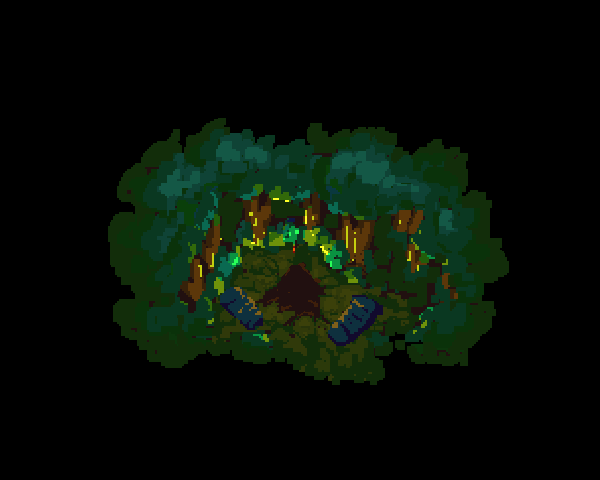
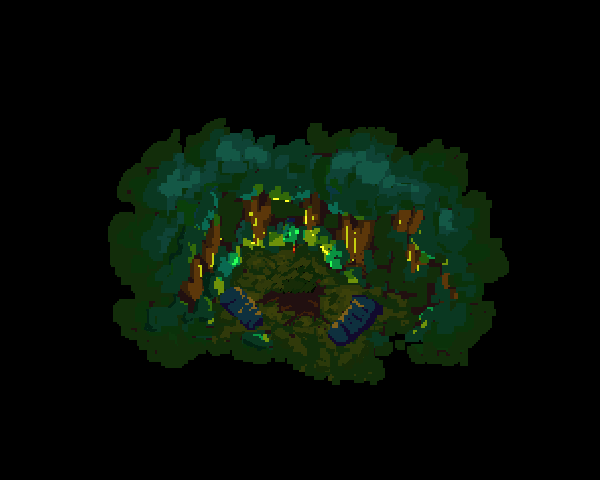
added screen fading

Changed region(s): [[0.45, 0.5312, 0.57, 0.7188], [0.33, 0.5625, 0.36, 0.5938]]

diff --git a/core/src/com/lovely/games/TheFirstGate.java b/core/src/com/lovely/games/TheFirstGate.java
@@ -100,6 +100,8 @@ public class TheFirstGate extends ApplicationAdapter implements Stage {
     private Sprite posterSprite;
     private boolean staticLevel;
     private String fightName;
+    private float screenFade;
+    private Sprite fadeSprite;
 
     @Override
 	public void create () {
@@ -157,6 +159,7 @@ public class TheFirstGate extends ApplicationAdapter implements Stage {
         assetManager.load("portrait-1.png", Texture.class);
         assetManager.load("wizard.png", Texture.class);
         assetManager.load("ant-test.png", Texture.class);
+        assetManager.load("fade-image.png", Texture.class);
 
         assetManager.load("fight-indicator.png", Texture.class);
         assetManager.load("fight-pro-avatar.png", Texture.class);
@@ -195,6 +198,8 @@ public class TheFirstGate extends ApplicationAdapter implements Stage {
         playerLight.setScale(1.0f, 4.0f);
         levelLight = new Sprite((Texture) assetManager.get("level-light.png"));
         fightDirectionArrow = new Sprite((Texture) assetManager.get("direction-arrow.png"));
+        fadeSprite = new Sprite((Texture) assetManager.get("fade-image.png"));
+        fadeSprite.setScale(4.0f);
 
         buffer = FrameBuffer.createFrameBuffer(Pixmap.Format.RGBA8888, VIEWPORT_WIDTH, VIEWPORT_HEIGHT, false);
         cam = new OrthographicCamera(buffer.getWidth(), buffer.getHeight());
@@ -205,6 +210,8 @@ public class TheFirstGate extends ApplicationAdapter implements Stage {
         posterSprite.setBounds(0,0,VIEWPORT_WIDTH,VIEWPORT_HEIGHT);
 
         shapeRenderer = new ShapeRenderer();
+
+        screenFade = 0f;
 
         levels = new ArrayList<>();
         levels.add(Level.loadLevel(assetManager, "levels/tower-01.tmx")); // 01
@@ -355,7 +362,8 @@ public class TheFirstGate extends ApplicationAdapter implements Stage {
 
     private void renderLightMasks() {
         buffer.begin();
-        Gdx.gl.glClearColor(0.3f, 0.3f, 0.15f, 1);
+        float gamma = 0.2f;
+        Gdx.gl.glClearColor(gamma, gamma, gamma, 1.0f);
         Gdx.gl20.glClear(GL20.GL_COLOR_BUFFER_BIT);
         bufferBatch.setProjectionMatrix(camera.combined);
         bufferBatch.begin();
@@ -433,7 +441,6 @@ public class TheFirstGate extends ApplicationAdapter implements Stage {
                 }
             }
         }
-
         bufferBatch.end();
         buffer.end();
     }
@@ -493,12 +500,14 @@ public class TheFirstGate extends ApplicationAdapter implements Stage {
                 }
             }
             for (Torch torch : currentLevel.torches) {
-                if (torch.isFire) {
-                    TextureRegion torchFrame = campfireAnim.getKeyFrame(animationDelta, true);
-                    batch.draw(torchFrame, torch.pos.x - 20, torch.pos.y - 10);
-                } else {
-                    TextureRegion torchFrame = torchAnim.getKeyFrame(animationDelta, true);
-                    batch.draw(torchFrame, torch.pos.x, torch.pos.y);
+                if (torch.pos.y >= playerPos.y) {
+                    if (torch.isFire) {
+                        TextureRegion torchFrame = campfireAnim.getKeyFrame(animationDelta, true);
+                        batch.draw(torchFrame, torch.pos.x - 20, torch.pos.y - 10);
+                    } else {
+                        TextureRegion torchFrame = torchAnim.getKeyFrame(animationDelta, true);
+                        batch.draw(torchFrame, torch.pos.x, torch.pos.y);
+                    }
                 }
             }
             TextureRegion currentFrame = walkanim.getKeyFrame(animationDelta, true);
@@ -512,6 +521,17 @@ public class TheFirstGate extends ApplicationAdapter implements Stage {
             for (Door door : currentLevel.doors) {
                 if (door.pos.y < playerPos.y && door.isOpen) {
                     batch.draw(openDoorImage, door.pos.x, door.pos.y);
+                }
+            }
+            for (Torch torch : currentLevel.torches) {
+                if (torch.pos.y < playerPos.y) {
+                    if (torch.isFire) {
+                        TextureRegion torchFrame = campfireAnim.getKeyFrame(animationDelta, true);
+                        batch.draw(torchFrame, torch.pos.x - 20, torch.pos.y - 10);
+                    } else {
+                        TextureRegion torchFrame = torchAnim.getKeyFrame(animationDelta, true);
+                        batch.draw(torchFrame, torch.pos.x, torch.pos.y);
+                    }
                 }
             }
 
@@ -565,7 +585,6 @@ public class TheFirstGate extends ApplicationAdapter implements Stage {
                 fightDirectionArrow.setPosition(camera.position.x - 32, camera.position.y - 32);
                 fightDirectionArrow.draw(batch);
             }
-
             if (posterImageName != null) {
                 Gdx.gl.glClear(GL20.GL_COLOR_BUFFER_BIT);
                 posterSprite.setTexture(assetManager.get(posterImageName));
@@ -573,10 +592,14 @@ public class TheFirstGate extends ApplicationAdapter implements Stage {
                 posterSprite.setPosition(camera.position.x - (VIEWPORT_WIDTH / 2.0f), camera.position.y - (VIEWPORT_HEIGHT / 2.0f));
                 posterSprite.draw(batch);
             }
-
+            if (screenFade > 0) {
+                fadeSprite.setAlpha(screenFade);
+                fadeSprite.setPosition(camera.position.x , camera.position.y );
+                fadeSprite.draw(batch);
+            }
             batch.end();
-
         }
+
         isLevelDirty = false;
 	}
 	
@@ -1000,6 +1023,10 @@ public class TheFirstGate extends ApplicationAdapter implements Stage {
     public void showPoster(float alpha, String poster) {
         posterAlpha = alpha;
         posterImageName = poster;
+    }
+
+    public void fadeScreen(float amount) {
+        screenFade = amount;
     }
 
     @Override

diff --git a/core/src/com/lovely/games/DialogContainer.java b/core/src/com/lovely/games/DialogContainer.java
@@ -23,6 +23,7 @@ public class DialogContainer {
     Map<String, List<DialogElement>> dialogs = new HashMap<>();
     String pro = "pro";
     String ant = "ant";
+    String info = "info";
     private Sprite portrait;
 
     {
@@ -30,7 +31,7 @@ public class DialogContainer {
                 line(pro, "I must push on with all haste, perhaps I can catch him")
         ));
         dialogs.put("2", Arrays.asList(
-                line(pro, "( press 'R' to restart a level )")
+                line(info, "( press 'R' to restart a level )")
         ));
         dialogs.put("3", Arrays.asList(
                 line(pro, "!? I've never seen a flying ball of green fire before. Magic!")
@@ -81,7 +82,7 @@ public class DialogContainer {
         ));
         dialogs.put("13", Arrays.asList(
                 line(pro, "I can feel a strange power, stirring inside of me"),
-                line(pro, "(press 'spacebar' to cast a spell)")
+                line(info, "(press 'spacebar' to cast a spell)")
         ));
         dialogs.put("14", Arrays.asList(
                 line(ant, "Wait! don't leave me here."),
@@ -126,7 +127,7 @@ public class DialogContainer {
                 line(ant, "Hold your tongue if you want your pay.")
         ));
         dialogs.put("20", Arrays.asList(
-                options(pro)
+                options(info)
                         .opt("sleep", "17")
                         .opt("stay up a while longer", null)
                         .build()
@@ -167,10 +168,12 @@ public class DialogContainer {
             batch.draw(dialogLineImg, dialogPos.x, dialogPos.y + 16 + (i * 32) + 8);
         }
 
-        portrait.setRegion(portraits.get(dialogLine.getOwner()));
-        boolean isLeft = dialogLine.getOwner().equals("pro");
-        portrait.setPosition(dialogPos.x + (isLeft ? 0 : 348), dialogPos.y + ypos + 32);
-        portrait.draw(batch);
+        if (portraits.containsKey(dialogLine.getOwner())) {
+            portrait.setRegion(portraits.get(dialogLine.getOwner()));
+            boolean isLeft = dialogLine.getOwner().equals("pro");
+            portrait.setPosition(dialogPos.x + (isLeft ? 0 : 348), dialogPos.y + ypos + 32);
+            portrait.draw(batch);
+        }
 
         for (String line : lines) {
             font.setColor(fontColorSecondary);
@@ -179,8 +182,6 @@ public class DialogContainer {
             font.draw(batch, line, dialogPos.x + 10, dialogPos.y + 16 + ypos);
             ypos = ypos - 32;
         }
-
-
     }
 
     private BitmapFont loadFonts() {

diff --git a/core/src/com/lovely/games/scene/FadeScreenVerb.java b/core/src/com/lovely/games/scene/FadeScreenVerb.java
@@ -1,0 +1,63 @@
+package com.lovely.games.scene;
+
+import com.badlogic.gdx.Gdx;
+import com.lovely.games.Stage;
+
+public class FadeScreenVerb implements SceneVerb {
+
+    private boolean isDone;
+    private boolean inDirection;
+    private float amount;
+    private float time;
+    private float originalAmount;
+
+    public FadeScreenVerb(boolean inDirection, float time) {
+        this.inDirection = inDirection;
+        this.time = time;
+        this.amount = inDirection ? time : 0;
+        this.originalAmount = amount;
+        this.isDone = false;
+    }
+
+    @Override
+    public void update(Stage stage) {
+        if (!isDone) {
+            if (inDirection) {
+                amount = amount - Gdx.graphics.getDeltaTime();
+                if (amount < 0) {
+                    isDone = true;
+                    amount = 0;
+                }
+            } else {
+                amount = amount + Gdx.graphics.getDeltaTime();
+                if (amount > time) {
+                    isDone = true;
+                    amount = time;
+                }
+            }
+
+        }
+        stage.fadeScreen(amount / time);
+    }
+
+    @Override
+    public boolean isDone() {
+        return isDone;
+    }
+
+    @Override
+    public boolean isBlocking() {
+        return true;
+    }
+
+    @Override
+    public void start() {
+        isDone = false;
+        amount = originalAmount;
+    }
+
+    @Override
+    public void skip() {
+
+    }
+}

diff --git a/core/src/com/lovely/games/Level.java b/core/src/com/lovely/games/Level.java
@@ -111,7 +111,6 @@ class Level {
             if (!sceneSource.isDone && sceneSource.isActive) {
                 Rectangle playerRect = new Rectangle(pos.x + 1, pos.y + 1, 20, 20);
                 if (playerRect.overlaps(new Rectangle(sceneSource.pos.x, sceneSource.pos.y, sceneSource.size.x, sceneSource.size.y))) {
-                    System.out.println("layer ovralps scne " + sceneSource.id);
                     sceneSource.isDone = true;
                     sceneSources.add(sceneSource);
                 }
@@ -481,8 +480,6 @@ class Level {
                 String switchId = null;
                 if (properties.containsKey("switch")) {
                     switchId = properties.get("switch").toString();
-                } else {
-                    System.out.println("found pressure tile missing switchlink x, y: " + pos.x + ", " + pos.y);
                 }
                 boolean isSwitch = false;
                 if (properties.containsKey("isSwitch")) {

diff --git a/core/src/com/lovely/games/scene/Scene.java b/core/src/com/lovely/games/scene/Scene.java
@@ -39,8 +39,6 @@ public class Scene {
             SceneVerb verb = verbs.get(currentVerb);
             verb.update(stage);
             if (verb.isDone()) {
-                System.out.println("current verb is done " + verb.getClass().getName());
-                System.out.println("verb outcome is " + verb.getOutcome());
                 if (verb.getOutcome() != null) {
                     this.outcome = verb.getOutcome();
                 }
@@ -49,7 +47,6 @@ public class Scene {
             if (currentVerb == verbs.size()) {
                 currentVerb = 0;
                 isDone = true;
-                System.out.println("resetting camera, all verbs done ");
                 if (resetCamera) {
                     stage.resetCamera();
                 }

diff --git a/core/src/com/lovely/games/scene/SceneContainer.java b/core/src/com/lovely/games/scene/SceneContainer.java
@@ -144,7 +144,12 @@ public class SceneContainer {
 
         // go to sleep
         scenes.put("17", builder()
+                .verb(new FadeScreenVerb(false, 2.0f))
                 .verb(new ConnectionVerb("start"))
+                .build());
+
+        scenes.put("21", builder()
+                .verb(new FadeScreenVerb(true, 2.0f))
                 .build());
     }
 

diff --git a/core/src/com/lovely/games/Door.java b/core/src/com/lovely/games/Door.java
@@ -21,11 +21,8 @@ public class Door implements Switchable {
 
     @Override
     public void handleMessage(String id) {
-        System.out.println("got message");
         if (switchId != null && switchId.equals(id)) {
-
             isOpen = !isOpen;
-            System.out.println("door isopen " + isOpen);
         }
     }
 }

diff --git a/core/src/com/lovely/games/Trunk.java b/core/src/com/lovely/games/Trunk.java
@@ -12,7 +12,6 @@ public class Trunk {
     }
 
     public void broadcast(String id) {
-        System.out.println("sending message " + id);
         for (Switchable listener : listeners) {
             listener.handleMessage(id);
         }

diff --git a/core/src/com/lovely/games/Stage.java b/core/src/com/lovely/games/Stage.java
@@ -25,4 +25,6 @@ public interface Stage {
     void showPoster(float alpha, String poster);
 
     void goToConnection(String connection);
+
+    void fadeScreen(float amount);
 }
